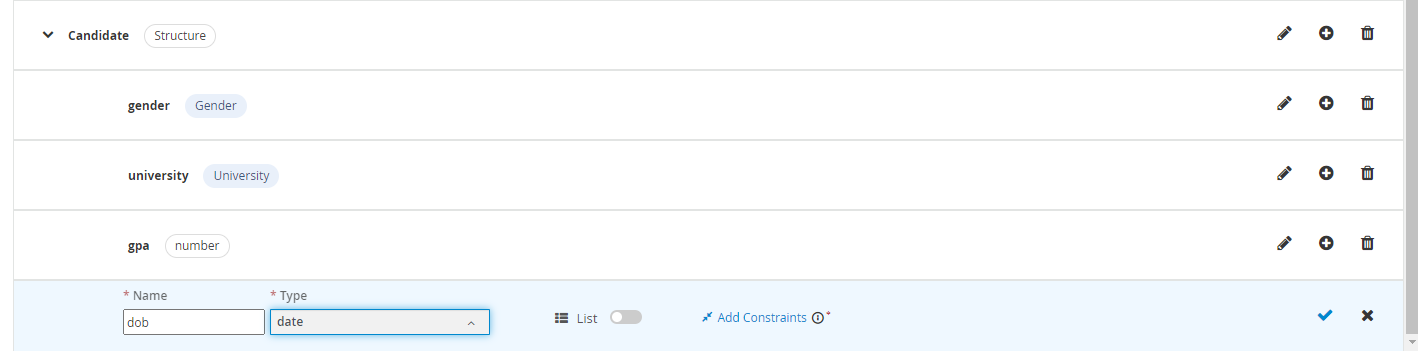
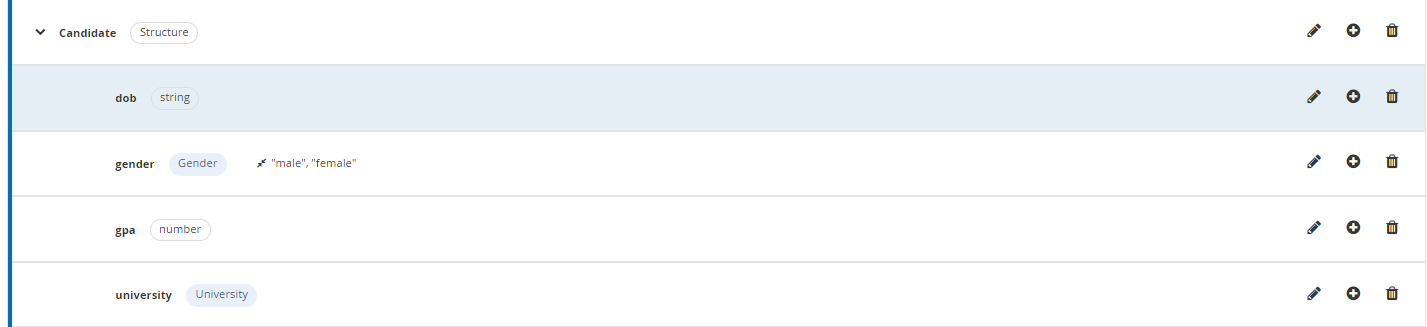
update

diff --git a/_rhpam/7.1-create-a-project.md b/_rhpam/7.1-create-a-project.md
@@ -1,0 +1,58 @@
+---
+layout: article
+title: "Create a Project"
+permalink: rhpam/java-client-api/create-a-project
+---
+
+I referred to [this](https://timwuthenow.github.io/guided_exercises/01_getting_started/01_walk_through/)) to create the project.
+
+### Install Maven
+
+Follow [this](https://timwuthenow.github.io/guided_exercises/00_get_tools/env-setup/#maven) to install Maven.
+
+### Create a Project
+
+1. Run
+
+   ```
+   mvn io.quarkus:quarkus-maven-plugin:create \
+       -DprojectGroupId=com.myspace -DprojectArtifactId=Job-Portal \
+       -DprojectVersion=1.0.0-SNAPSHOT -Dextensions=kogito-quarkus,dmn,resteasy-reactive-jackson,quarkus-smallrye-openapi,quarkus-smallrye-health
+   ```
+
+   to create a project.
+
+2. Add this block of code in the `<dependencies>` section of the `pom.xml`:
+
+   > Note that it is not the `<dependencies>` inside the `<dependency management>`.
+
+   ```yml
+   <dependency>
+       <groupId>jakarta.platform</groupId>
+       <artifactId>jakarta.jakartaee-web-api</artifactId>
+       <version>9.0.0</version>
+       <scope>provided</scope>
+   </dependency>
+   <dependency>
+      <groupId>org.kie.server</groupId>
+      <artifactId>kie-server-client</artifactId>
+      <version>7.30.0.Final</version>
+      <scope>compile</scope>
+    </dependency>
+   ```
+
+### Adding Custom Data Objects
+
+1. Go to **Business Central**, Then go to **Projects** and **Job-Portal**.
+
+2. Filter by _Data Objects_, then click into the **Candidate**.
+
+3. Go to **Source** and copy the source code.
+
+   ![source](../assets/images/business-central/java/source.png)
+
+4. Create a file named **Candidate.java** in the `src\main\java\com\myspace\job_portal\Candidate.java` (Note: Create the `job_portal` folder.). Then paste source the code into the file.
+
+   ![candidate](../assets/images/business-central/java/candidate.png)
+
+5. Repeat with the **Interview** data object.

diff --git a/_rhpam/2.3-data-objects.md b/_rhpam/2.3-data-objects.md
@@ -24,18 +24,22 @@ For our project, we only need 1 data object.
 
     ![add-field](../assets/images/business-central/add-field.png)
 
+    Note that in the later exercise when we want to use the REST API to `GET` the `candidate`
+    object, we will encounter unmarshalling issue if we keep the type as `LocalDate`.
+    {:.warning}
+
 2.  After filling in the _id_, _Label_ and _Type_, press **Create and continue** to add more fields.
 
 3.  I will list the fields to be added in a table:
 
-    | Identifier | Label               | Type      |
-    | ---------- | ------------------- | --------- |
-    | dob        | Date of Birth       | LocalDate |
-    | email      | E-mail              | String    |
-    | gender     | Gender              | String    |
-    | gpa        | Grade Point Average | float     |
-    | name       | Name                | String    |
-    | university | University          | String    |
+    | Identifier | Label               | Type   |
+    | ---------- | ------------------- | ------ |
+    | dob        | Date of Birth       | String |
+    | email      | E-mail              | String |
+    | gender     | Gender              | String |
+    | gpa        | Grade Point Average | float  |
+    | name       | Name                | String |
+    | university | University          | String |
 
 4.  The candidate object should look like this.
 

diff --git a/_rhpam/2.4-building-dmn-in-business-central.md b/_rhpam/2.4-building-dmn-in-business-central.md
@@ -96,10 +96,10 @@ We will create a BKM model to calculate age from date of birth using FEEL expres
 5. Copy the code into the empty field below:
 
    ```
-    if (today().month < dob.month or (today().month = dob.month and today().day < dob.day)) then
-        today().year - dob.year - 1
-    else
-        today().year - dob.year
+   if (today().month < date(dob).month or (today().month = date(dob).month and today().day < date(dob).day)) then
+      today().year - date(dob).year - 1
+   else
+      today().year - date(dob).year
    ```
 
 6. Press **Save** to save the changes.

diff --git a/_rhpam/4.4-adding-more-tasks.md b/_rhpam/4.4-adding-more-tasks.md
@@ -166,4 +166,4 @@ We have completed our workflow diagram!
 
 **Generate all forms** and redeploy the project. Play around and see if it works according to what we envision.
 
-The complete project can be found [here](https://github.com/zm-l/rhpam-demo/tree/main/MySpace_Job-Portal/project).
+The complete project can be found [here](https://github.com/zm-l/rhpam-demo/blob/main/MySpace_Job-Portal/project/src/main/resources/com/myspace/job_portal/hiring.bpmn).

diff --git a/_rhpam/7.2-minimal-java-program.md b/_rhpam/7.2-minimal-java-program.md
@@ -1,0 +1,7 @@
+---
+layout: article
+title: "Minimal Java Program"
+permalink: rhpam/java-client-api/minimal-java-program
+---
+
+Please refer to [this](https://timwuthenow.github.io/guided_exercises/04_order_management/lab-walkthrough/#using-the-kie-server-client) as it provides a comprehensive guide on the Java Client API.

diff --git a/_rhpam/2.5-test-scenario.md b/_rhpam/2.5-test-scenario.md
@@ -49,7 +49,7 @@ We can utilize the test scenario asset in business central to help us test out o
         <tr>
         <td>1</td>
         <td>Age < 21</td>
-        <td>date("2002-12-12")</td>
+        <td>"2002-12-12"</td>
         <td>"female"</td>
         <td>3.9</td>
         <td>"um"</td>
